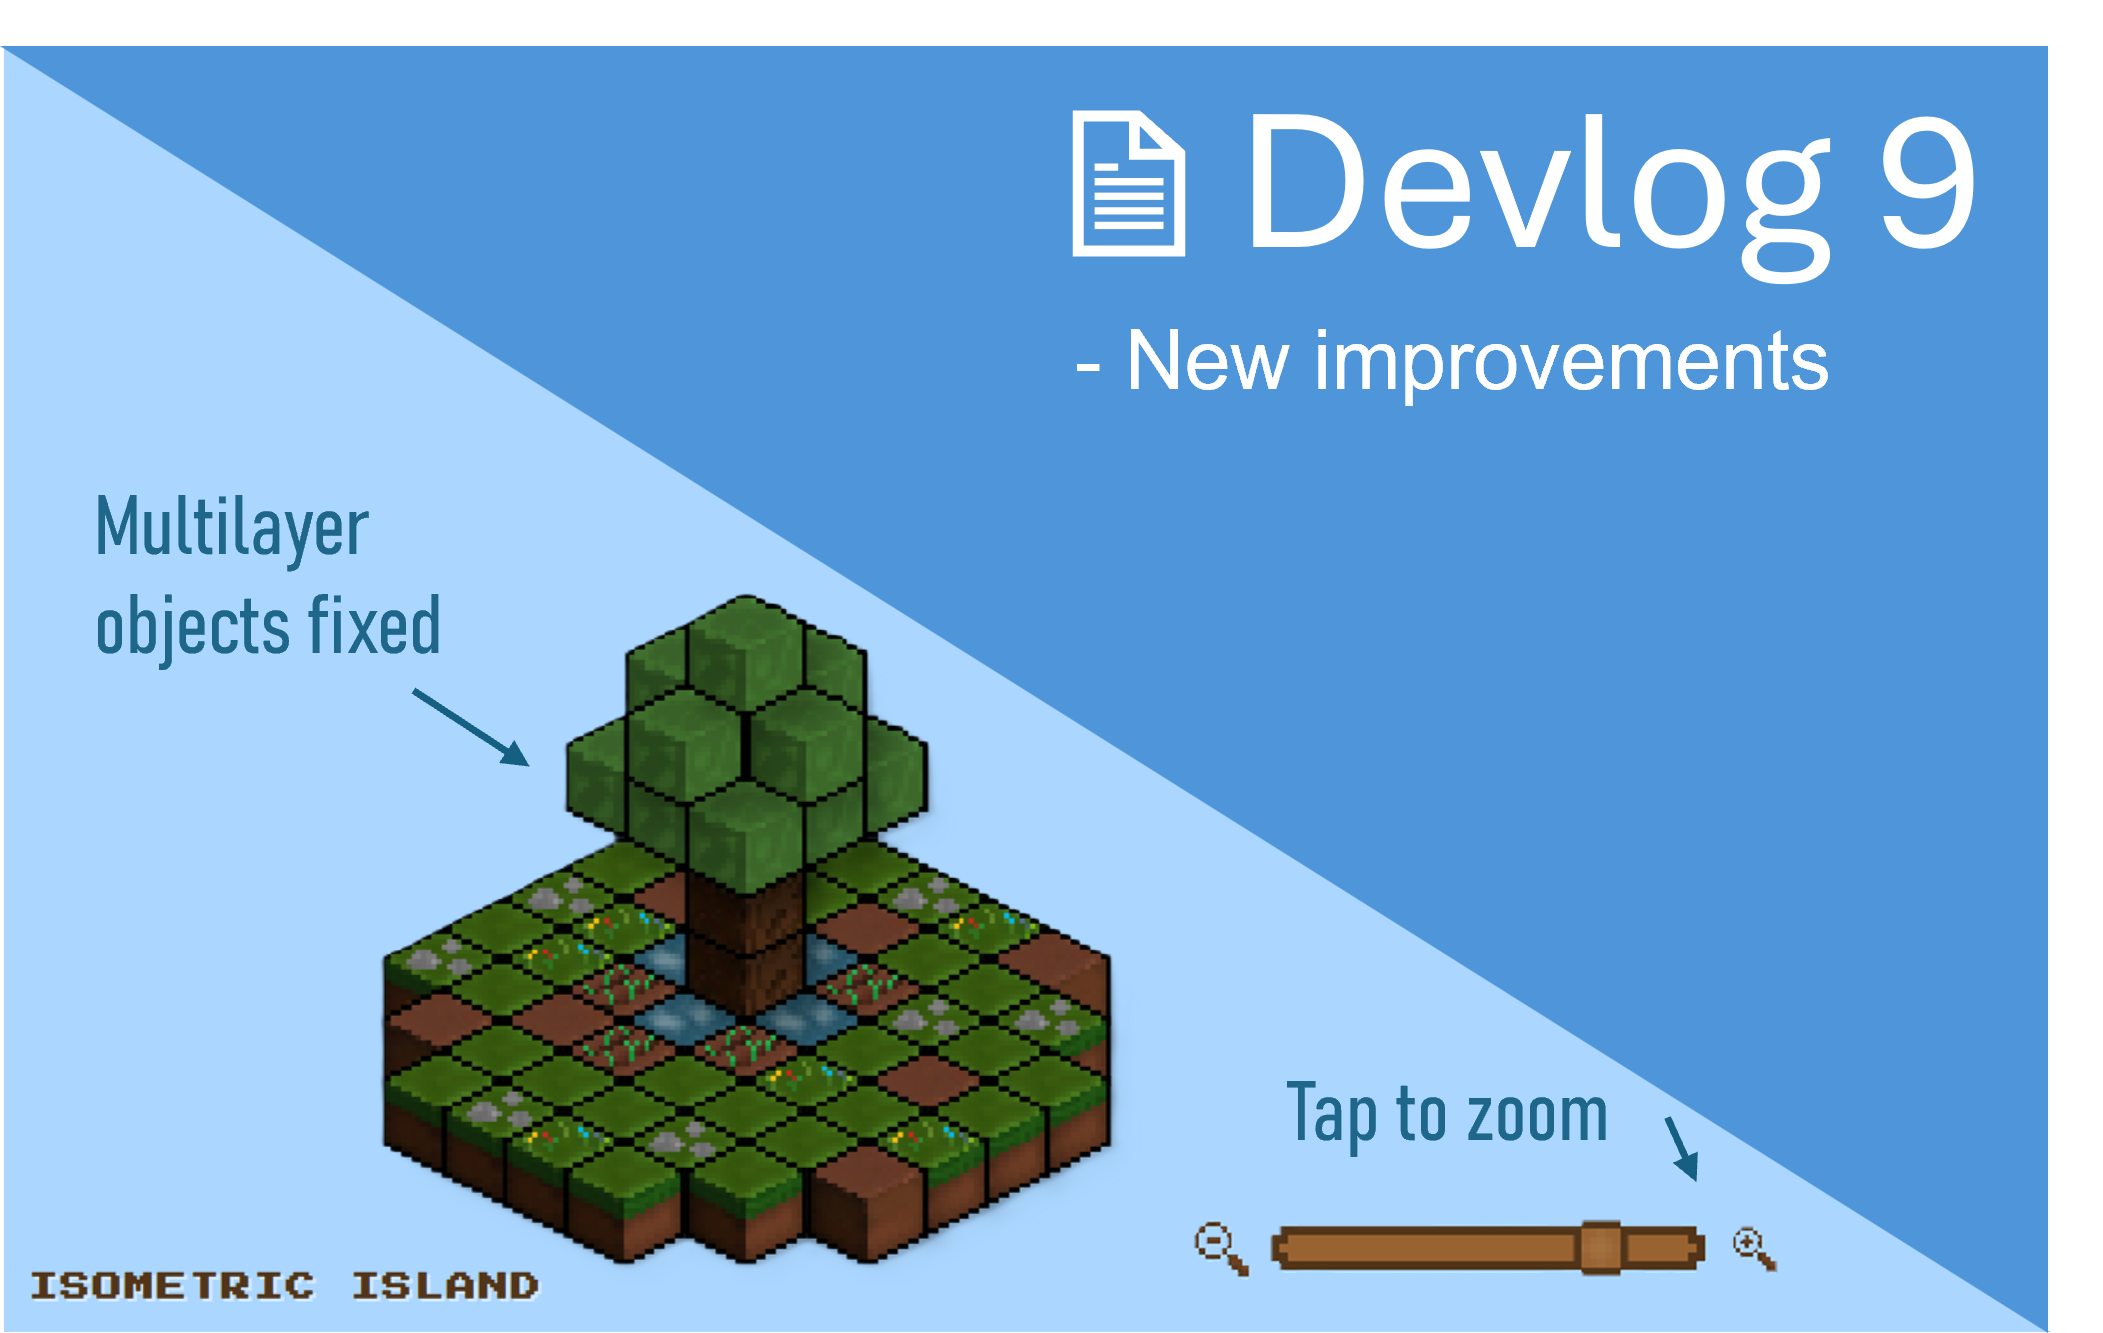
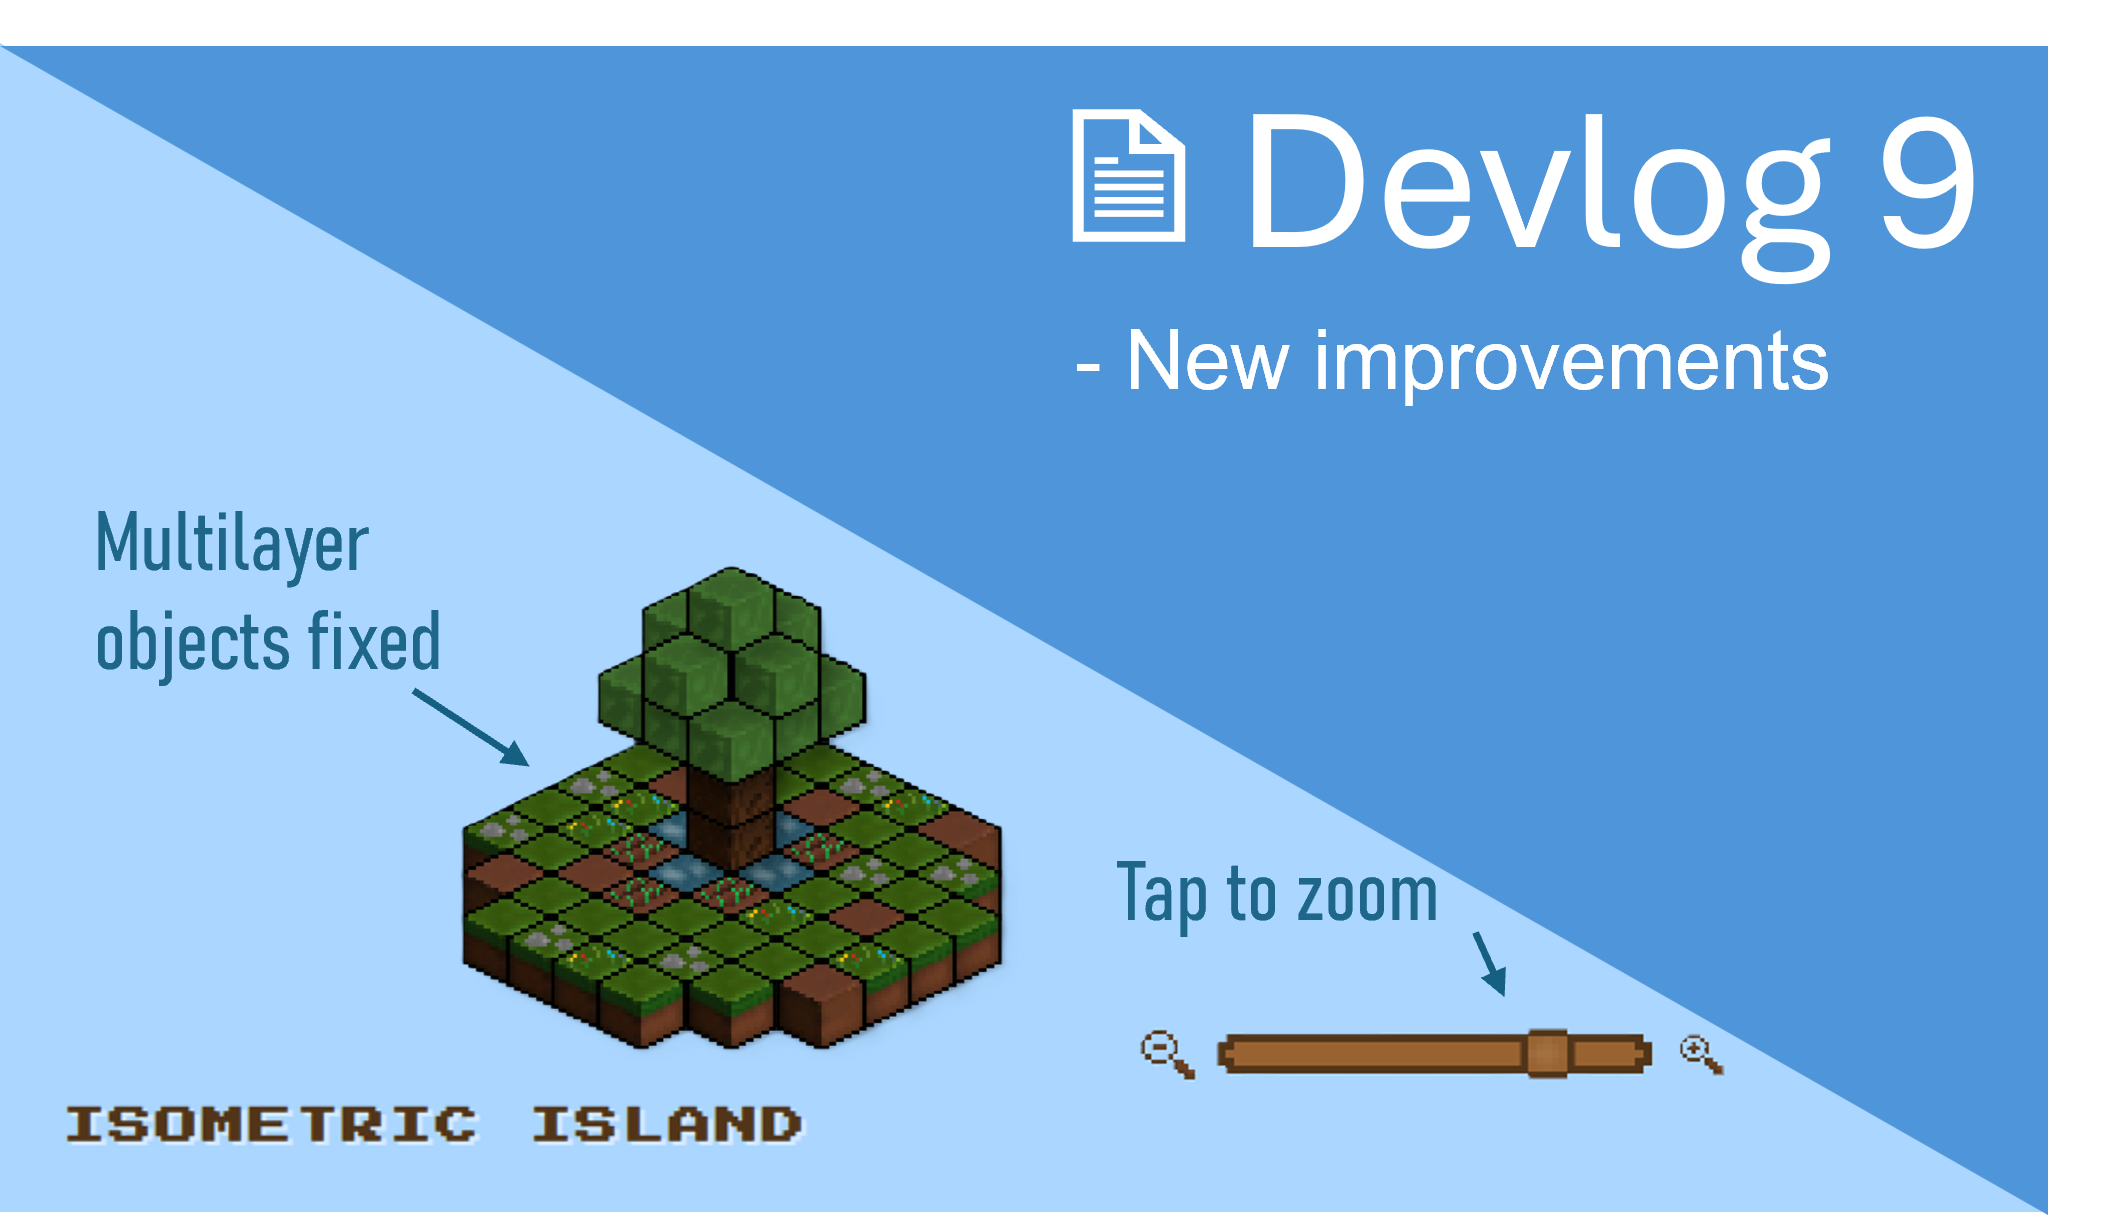
Added new assets and devlog thumbnail

Changed region(s): [[0.0, 0.3654, 0.8345, 1.0], [0.0, 0.0305, 0.9582, 0.335], [0.68, 0.7613, 0.7109, 0.7918]]

diff --git a/todo.md b/todo.md
@@ -4,7 +4,7 @@
 - more blocks to fill the hotbar
 - day/night/rain switch
 - add tree/ snow blocks/ and snowman/ flowers/rocks on grass
-- add shadows to the island 
+- add shadows to the island (done)
 - add music and music switch on off
 - add some comments so ppl understand what i did
 - decompile all of my game into HTML, CSS , JAVA
